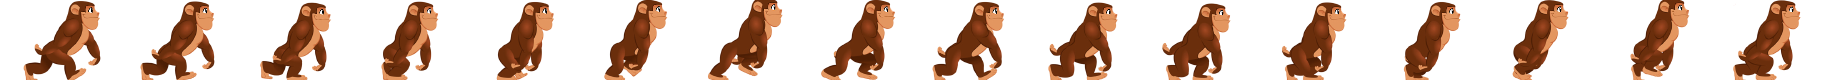
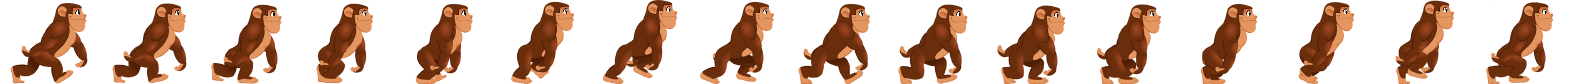
fixed monkey walking

diff --git a/js/game.js b/js/game.js
@@ -20,13 +20,13 @@ class Game {
     }
 
     score() {
-        this.button = new Image(40, 25, 200, 60)
+        this.button = new Image(25, 25, 150, 60)
         this.button.src = '../images/button.png'
         this.ctx.drawImage(this.button, 40, 25, 200, 60)
 
         this.ctx.font = '28px monospace';
         this.ctx.fillStyle = 'white';
-        this.ctx.fillText(`Store: ${this.points}`, 70, 65);
+        this.ctx.fillText(`Score: ${this.points}`, 70, 65);
     }
 
     decreasePlayerVelocity(velocity) {
@@ -72,15 +72,22 @@ class Game {
         const smallPlatformsCoords = PHASE_ONE.smallPlatforms;
         smallPlatformsCoords.forEach(smallPlatform => {
             this.smallPlatforms.push(new Platform(smallPlatform.x, smallPlatform.y, 512, '../images/platform02.png'))
-        })
+        }) 
 
 
 
         //background image
         this.background = []
         for (let i = 0; i < 27; i++) {
-            this.background.push(new Background((994) * i, 0, '../images/BG.png'))
+            this.background.push(new Background((1399) * i, 0, '../images/BG03.jpg'))
         }
+
+        //Add objects
+        /* const trees01Coords = PHASE_ONE.trees01;
+        trees01Coords.forEach(tree => {
+            this.trees01.push(new Object(tree.x, tree.y, 100, '../images/Tree_1.png'))
+        })  */
+
 
 
         //Adds Rewards
@@ -93,6 +100,7 @@ class Game {
         const rewardsMaxY = 300;
 
 
+        // FAZ UM RANDOM DESSE NuMERO DE REWARDS PRA TER UM NUMERO ALEATORIO DE MOEDAS NA FASE
         for (let i = 1; i < 27; i++) {
 
             const randomX = this.random(rewardsMinX, rewardsMaxX);
@@ -136,6 +144,11 @@ class Game {
             reward.update();
         })
 
+          //Add objects        
+        /* this.trees01.forEach((tree) => {
+            tree.draw()
+        }); */
+
         //Add score
         this.score();
 
@@ -143,13 +156,13 @@ class Game {
 
         //Scroll the background scenario
         if (this.keys.right.pressed && this.player.x < 400) {
-            this.player.velocity.x = this.player.speed;
+            this.player.startMoving()
         } else if (this.keys.left.pressed && this.player.x > 100 || this.keys.left.pressed && this.scrollOffset === 0 &&
             this.player.x > 0) {
-            this.player.velocity.x = -this.player.speed;
-        } else {
-            this.player.velocity.x = 0;
+                this.player.stopMoving()
+        } else {            
             if (this.keys.right.pressed) {
+                this.player.startStaticMoving()
                 this.scrollOffset += this.player.speed
 
                 this.platforms.forEach((platform) => {
@@ -172,6 +185,13 @@ class Game {
                 this.rewards.forEach((reward) => {
                     reward.x -= this.player.speed
                 })
+
+                /* this.trees01.forEach((trees) => {
+                    trees.x -= this.player.speed
+                }) */
+            } else {
+                // PREVENT FROM KEEP MOVING AFTER RELEASE RIGHT KEY
+                this.player.stopMoving()
             }
         }
 

diff --git a/js/player.js b/js/player.js
@@ -1,16 +1,20 @@
 const gravity = 0.7
 class Player {
     constructor() {
+        this.speed = 8;
         this.x = 100;
         this.y = 100;
         this.velocity = {
             x: 0,
             y: 0
         }
-        this.width = 90;
-        this.height = 120;
-        this.speed = 10;
+        this.width = 54;
+        this.height = 98;
         this.frames = 0;
+
+        // CONTROL THE PLAYER ANIMATION
+        this.playerPhase = 0;
+        this.stillMoving = false;
     }
     
     drawUp() {
@@ -25,20 +29,59 @@ class Player {
         )
     }
 
-
-    drawMove() {
+    drawMove() {  
         this.image = new Image();
-        this.image.src ='../images/monkeyMove.png';
-        ctx.drawImage(
-            this.image, 
+        this.image.src ='../images/monkeyMove.png';      
+        ctx.drawImage(            
+            this.image,
+            98 * this.playerPhase,
+            0,
+            98,
+            84,
             this.x, 
             this.y, 
-            this.width, 
-            this.height
+            80, 
+            98
         )
     }
+
+    // NO AMIMATION NEIGHTER VELOCITY
+    stopMoving() {
+        this.velocity.x = 0
+        this.stillMoving = false;
+    } 
+
+    // ANIMATION AND VELOCITY TOGHETER
+    startMoving() {
+        this.velocity.x = this.speed
+        this.stillMoving = true;
+    } 
+
+    // ANIMATION WITHOUT VELOCITY TO FOLLOW THE SCNARIO SCROLLING
+    startStaticMoving() {
+        this.velocity.x = 0
+        this.stillMoving = true
+    }
+
+    draw() {
+        this.frames++;
+        if(this.frames % 2 === 0){
+            this.playerPhase++
+        } 
+        if(this.playerPhase > 15){
+            this.playerPhase = 0
+        }
+
+        if(this.velocity.x > 0 || this.stillMoving) {
+            this.drawMove()
+        } else {
+            this.drawUp()
+        }
+    } 
     
     newPosition() {
+        this.draw();
+
         this.x += this.velocity.x
         this.y += this.velocity.y
         
@@ -46,25 +89,12 @@ class Player {
             this.velocity.y = 0;
             this.y = 1
             
-        }else if (this.velocity.y <= canvas.height){
+        } else if (this.velocity.y <= canvas.height){
             this.velocity.y += gravity
-        }       
-        
-        this.drawUp()
+        }
     }
 
-
-
-
-    update(){
-        this.frames++
-        if(this.frames > 16){
-            this.frames++
-        } 
-        
-        this.drawMove();
-    }
-
+  
     decreaseVelocity(velocity) {
         this.velocity.y -= velocity
     } 

diff --git a/js/phase1.js b/js/phase1.js
@@ -1,18 +1,36 @@
 const PHASE_ONE = {
     platforms: [
         {x: 0, y: 500},
-        {x: 1100, y: 500}
+        {x: 2300, y: 500},        
+        {x: 3900, y: 500},
+        {x: 6800, y: 500}
+
     ],
     smallPlatforms: [
-        {x: 200, y: 400},
-        {x: 600, y: 400}
+        {x: 1600, y: 400},         
+        {x: 1400, y: 500},               
+        {x: 3600, y: 400},                       
+        {x: 4800, y: 400},
+        {x: 6000, y: 370},
+        {x: 5800, y: 500},
+        {x: 7000, y: 500},
 
     ],
-    floatingPlatforms: [
-        {x: 200, y: 400},
-        {x: 600, y: 400}
+    floatingPlatforms: [                
+        {x: 2300, y: 240},                       
+        {x: 4300, y: 240},
+        {x: 5200, y: 240},
 
     ],
+
+    trees01: [
+        {x: 1, y: 1}
+    ],
+
+    trees02: [
+        {x: 1, y: 1}
+    ],
+
     rewards: [
         {x: 1, y: 1}
     ]

diff --git a/styles/style.css b/styles/style.css
@@ -1,9 +1,14 @@
 body {
-    background-color: white;
+    background-color: rgb(36, 17, 2);
+    /* background-image: url('../images/background.jpg'); */
     display: flex;
     align-items: center;
     justify-content: center;
     height: 1024px;
+    width: 100%;
+    height: 100vh;
+    transform-origin:center ;
+    transform: scale(100%);
 }
 
 #intro-screen,
@@ -16,7 +21,7 @@ body {
 
 #intro-screen,
 #end-screen {
-    background-image: url('../images/BG.png');
+    background-image: url('../images/BG03.jpg');
     display: flex;
     flex-direction: column;
     justify-content: center;

diff --git a/index.html b/index.html
@@ -25,6 +25,7 @@
   </div>
   <canvas width = "1024" height="576" ></canvas>
   <script type="text/javascript" src="./js/phase1.js" ></script>
+  <script type="text/javascript" src="./js/objects.js" ></script>
   <script type="text/javascript" src="./js/background.js" ></script>
   <script type="text/javascript" src="./js/platform.js" ></script>
   <script type="text/javascript" src="./js/rewards.js" ></script>

diff --git a/js/objects.js b/js/objects.js
@@ -1,0 +1,15 @@
+class Objects {
+    constructor(x, y, width, imageSrc) {
+        this.x = x;
+        this.y = y;
+        this.width = width;
+        this.height = 10;
+        const image = new Image();
+        image.src = imageSrc;
+        this.image = image;      
+    }
+
+    draw(){
+        ctx.drawImage(this.image, this.x, this.y)
+    }    
+}
